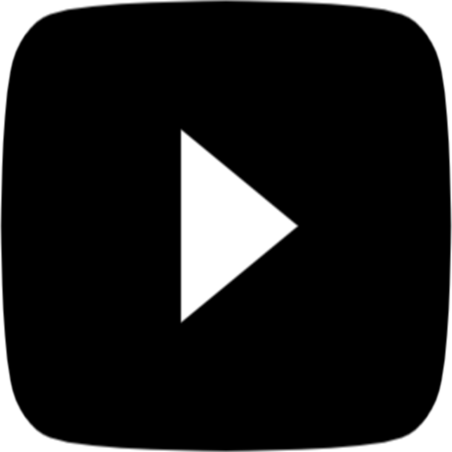
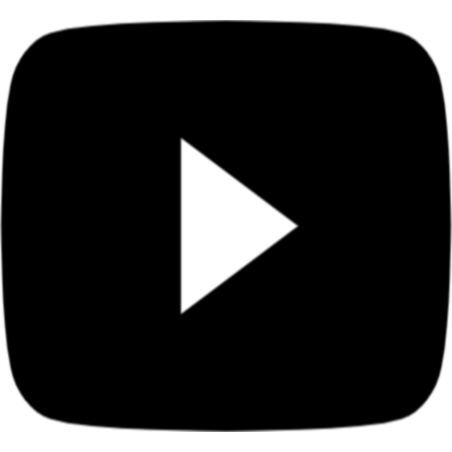
update image for live

diff --git a/index.html b/index.html
@@ -218,7 +218,7 @@
         <div class="container mx-auto">
           <div class="grid grid-cols-1 md:grid-cols-2 gap-12 items-center">
             <img
-              src="elements/channel.jpg"
+              src="elements/live.jpg"
               alt="Live"
               class="rounded-lg shadow-lg w-full"
             />
